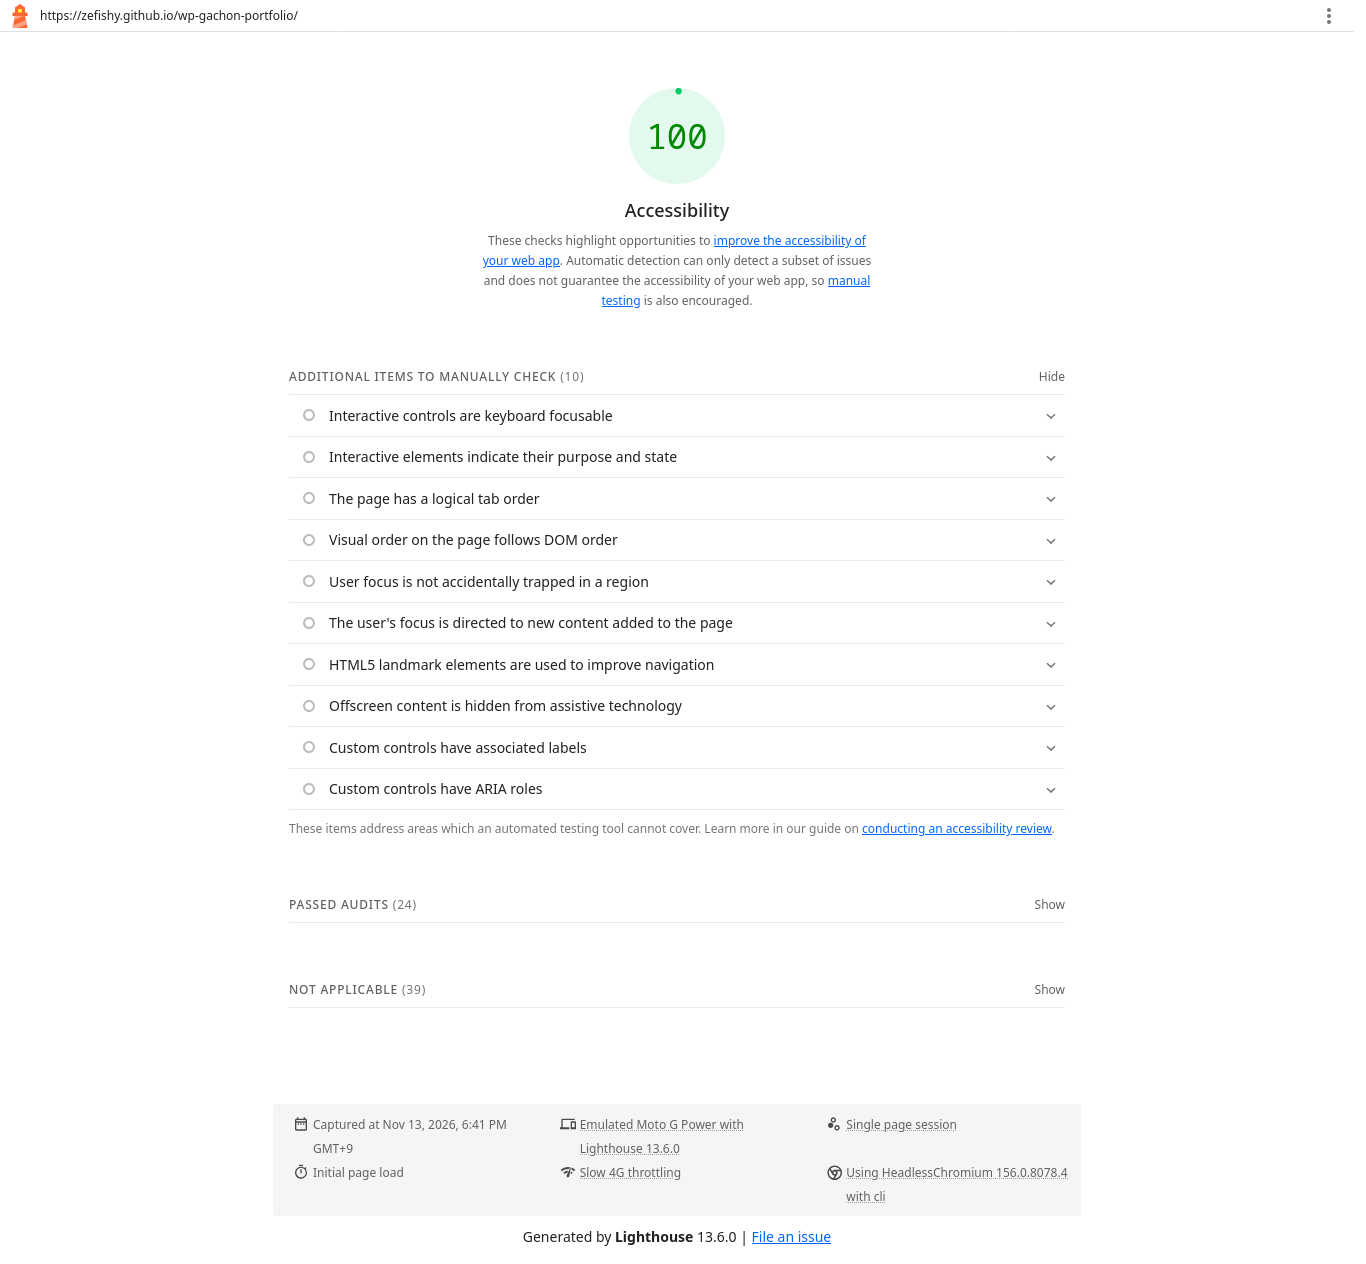
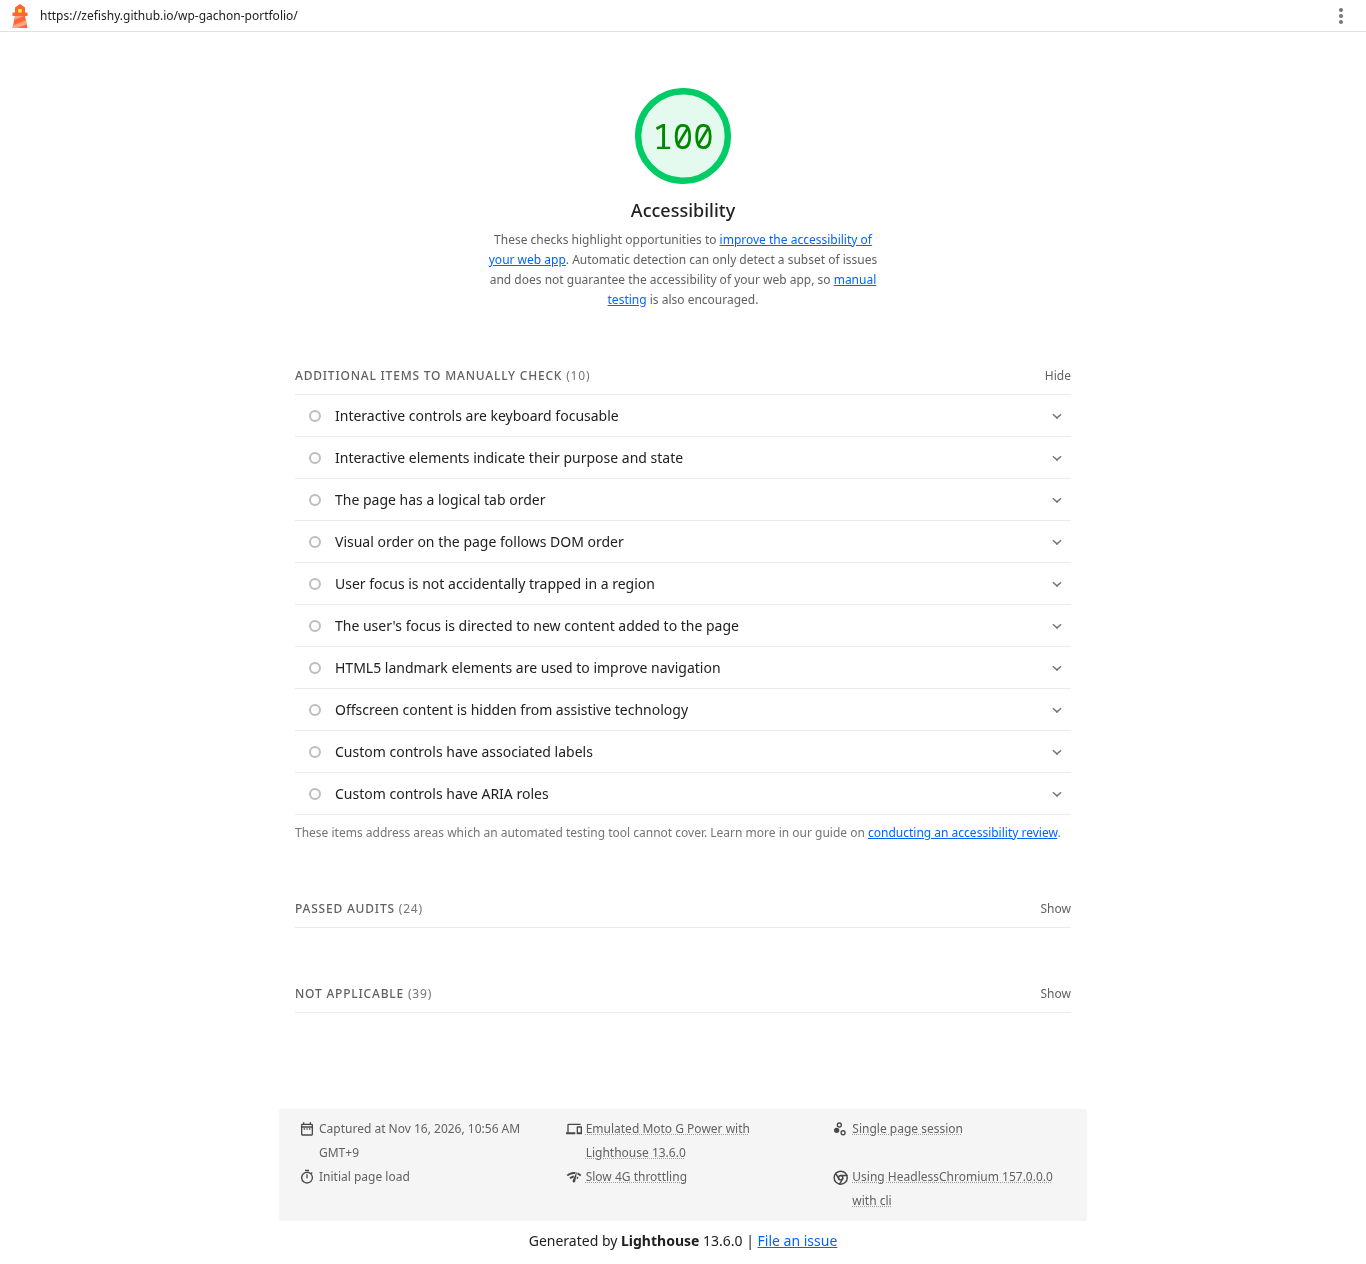
week 10 updates

diff --git a/week10/homework2.html b/week10/homework2.html
@@ -271,7 +271,7 @@ branch &#39;main&#39; set up to track &#39;origin/main&#39;.</code></pre>
               <div class="stat" role="listitem">
                 <span class="page">no forms, video, or data tables</span>
                 <span class="name">Not applicable</span>
-                <p class="figures">42</p>
+                <p class="figures">39</p>
               </div>
             </div>
             <p>What the automated pass confirmed:</p>
